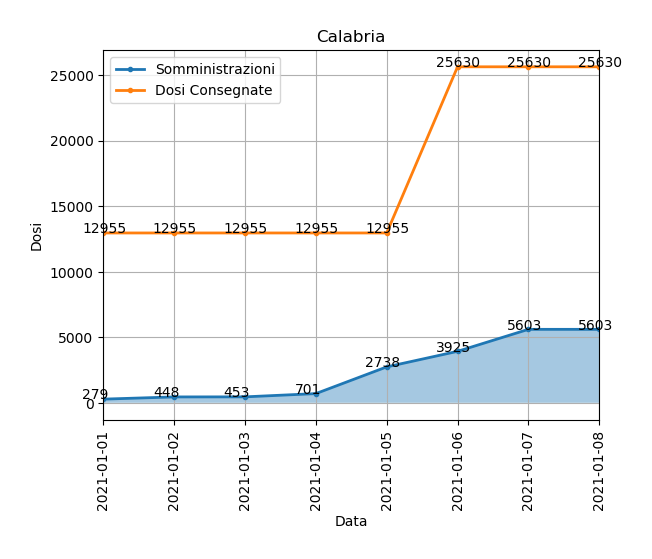
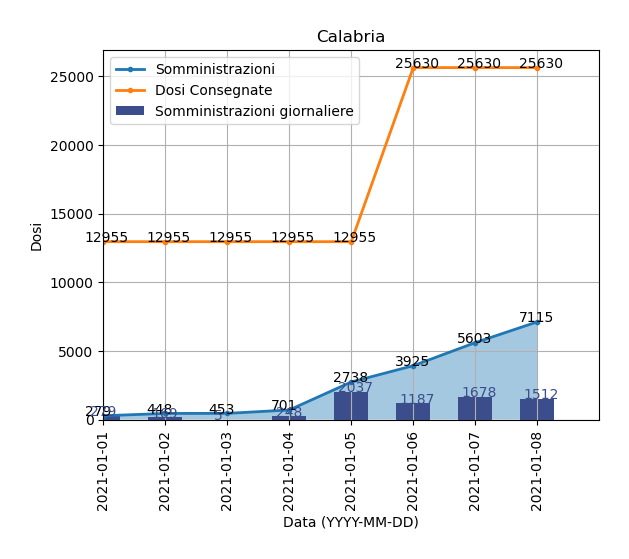
Update plot: now display also daily vaccinations, bar plot

Changed region(s): [[0.0604, 0.0304, 0.9666, 0.9428], [0.4531, 0.5778, 0.5135, 0.6386], [0.0302, 0.3953, 0.0604, 0.4562]]

diff --git a/plot_regions.py b/plot_regions.py
@@ -18,14 +18,22 @@ def plotRegions(path, dest_path):
 
         date = df['Data'].copy()
 
+        daily = []
+
+        for j in range(1,len(df['Somministrazioni'])):
+            daily.append(df.at[j,'Somministrazioni'] - df.at[j-1,'Somministrazioni'])
+        print(daily)
+        daily.insert(0,df.at[0,'Somministrazioni'])
+
         for k in range(0,len(date)):
             date[x] = date[k].strip("2020-")
 
         ax = df.plot(x='Data', y=['Somministrazioni', 'Dosi Consegnate'], kind='line', title=filename, grid=True,
                 xticks=np.arange(len(df['Data'])),  lw = 2, rot = 90,
-                legend=True, style='.-')
-        ax.set_xlabel("Data")
+                 style='.-')
+        ax.set_xlabel("Data (YYYY-MM-DD)")
         ax.set_ylabel("Dosi")
+        plt.xlim(0,len(df['Data']))
 
         for i, txt in enumerate(df['Somministrazioni']):
             plt.text(i - 0.3, txt, txt)
@@ -33,7 +41,13 @@ def plotRegions(path, dest_path):
         for i, txt in enumerate(df['Dosi Consegnate']):
             plt.text(i - 0.3, txt, txt)
 
-        plt.fill_between(np.arange(len(df['Data (YYYY-MM-DD)'])), df['Somministrazioni'], alpha=0.4)
+        for i, txt in enumerate(daily):
+            plt.text(i - 0.22, txt, txt,color='#3b4d8a')
+
+        plt.fill_between(np.arange(len(df['Data'])), df['Somministrazioni'], alpha=0.4,label='_nolegend_')
+
+        plt.bar(np.arange(len(df['Data'])),daily,width=0.55,color = '#3b4d8a')
+        plt.legend(['Somministrazioni', 'Dosi Consegnate','Somministrazioni giornaliere'])
 
         plt.savefig(fname=dest_path + filename + '.png',pad_inches = 0.3,bbox_inches= 'tight')
         #plt.show()
@@ -41,9 +55,9 @@ def plotRegions(path, dest_path):
         print(x)
 
 
-"""
+
 DEST_PATH_REGIONS = 'E:/vaccinazione_COVID19/andamento_giornaliero_regioni/'
 DEST_PATH_GRAFICI = 'E:/vaccinazione_COVID19/andamento_giornaliero_regioni_grafici/'
 
 plotRegions(DEST_PATH_REGIONS, DEST_PATH_GRAFICI)
-"""
+
